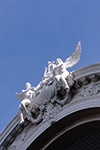
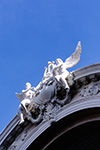
motion

diff --git a/7. ascii/ascii-practice.js b/7. ascii/ascii-practice.js
@@ -1,6 +1,7 @@
 let img;
 let font;
 let chuoiKiTu = "_____________################";
+let symbol = "     .:░▒▓█";
 
 
 //Thêm slider
@@ -8,7 +9,7 @@ let slider;
 
 function preload() {
     font = loadFont ("font/Sora-Medium.ttf");
-    img = loadImage("Imgs/10.jpg");
+    img = loadImage("Imgs/9.jpg");
 }
 
 function setup() {
@@ -40,12 +41,22 @@ function draw() {
             let charIndex = int(map(grayScale, 0, 255, 0, chuoiKiTu.length));
             let char = chuoiKiTu[charIndex];
 
+            let idxSymbol = int(map(grayScale, 0, 255, 0, symbol.length));
+            let chuoiSymbol = symbol[idxSymbol];
+
             textSize(slider.value());
-            // textFont(font);
-            textLeading(14);
-            fill(r-20,g,b);
-            noStroke();
-            text(char, j*7, i*7);
+            // Nếu giây chẵn thì đổi hình sang symbol, nếu giây lẻ thì đổi hình sang chuoiKyTu
+            if (second()%2 ==0) {
+                textLeading(14);
+                fill(r-20,g,b);
+                noStroke();
+                text(char, j*7, i*7);
+            } else {
+                fill(r+100,g,b+50);
+                noStroke();
+                text(chuoiSymbol, j*7, i*7);
+            }
+            
         }
     }
     img.updatePixels();
